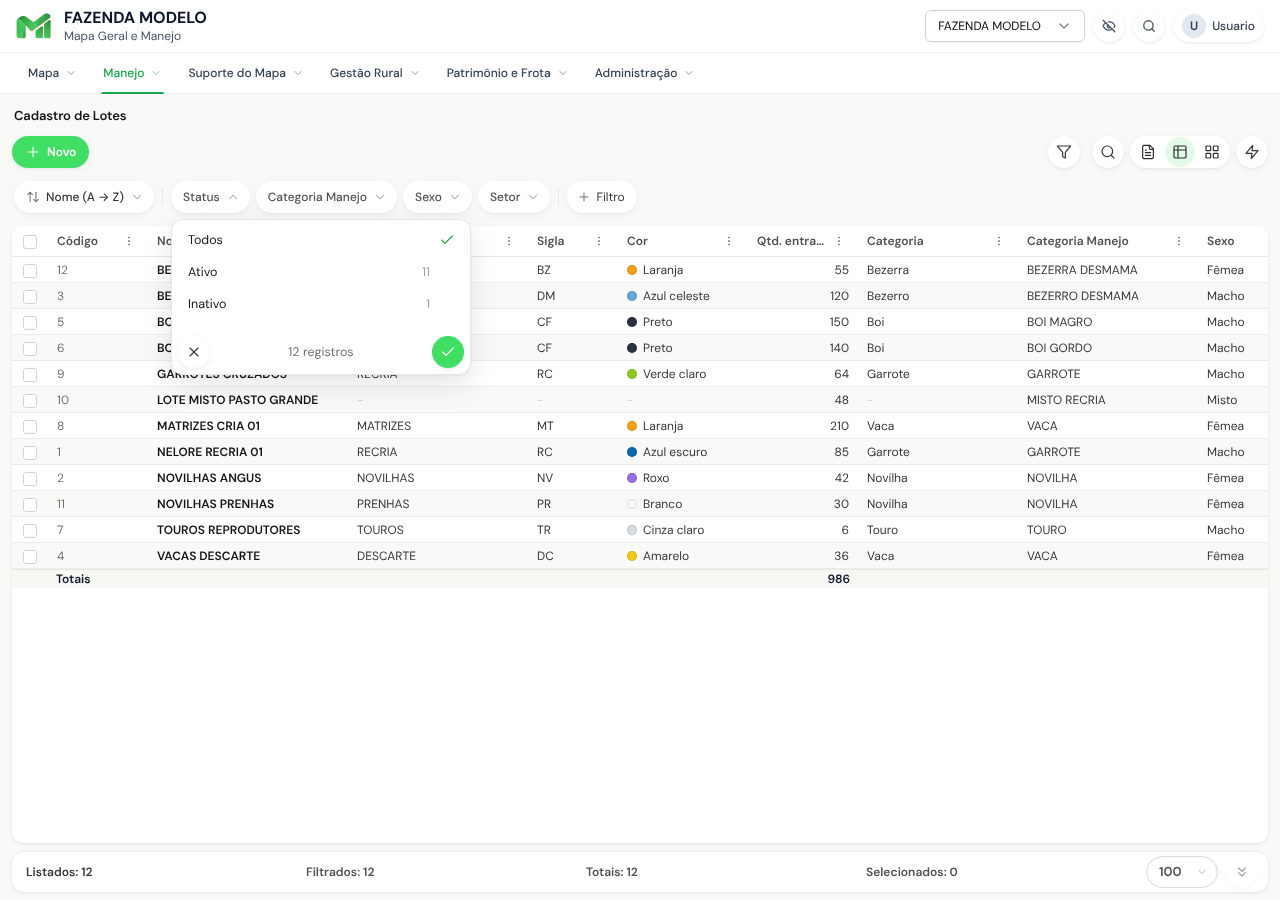
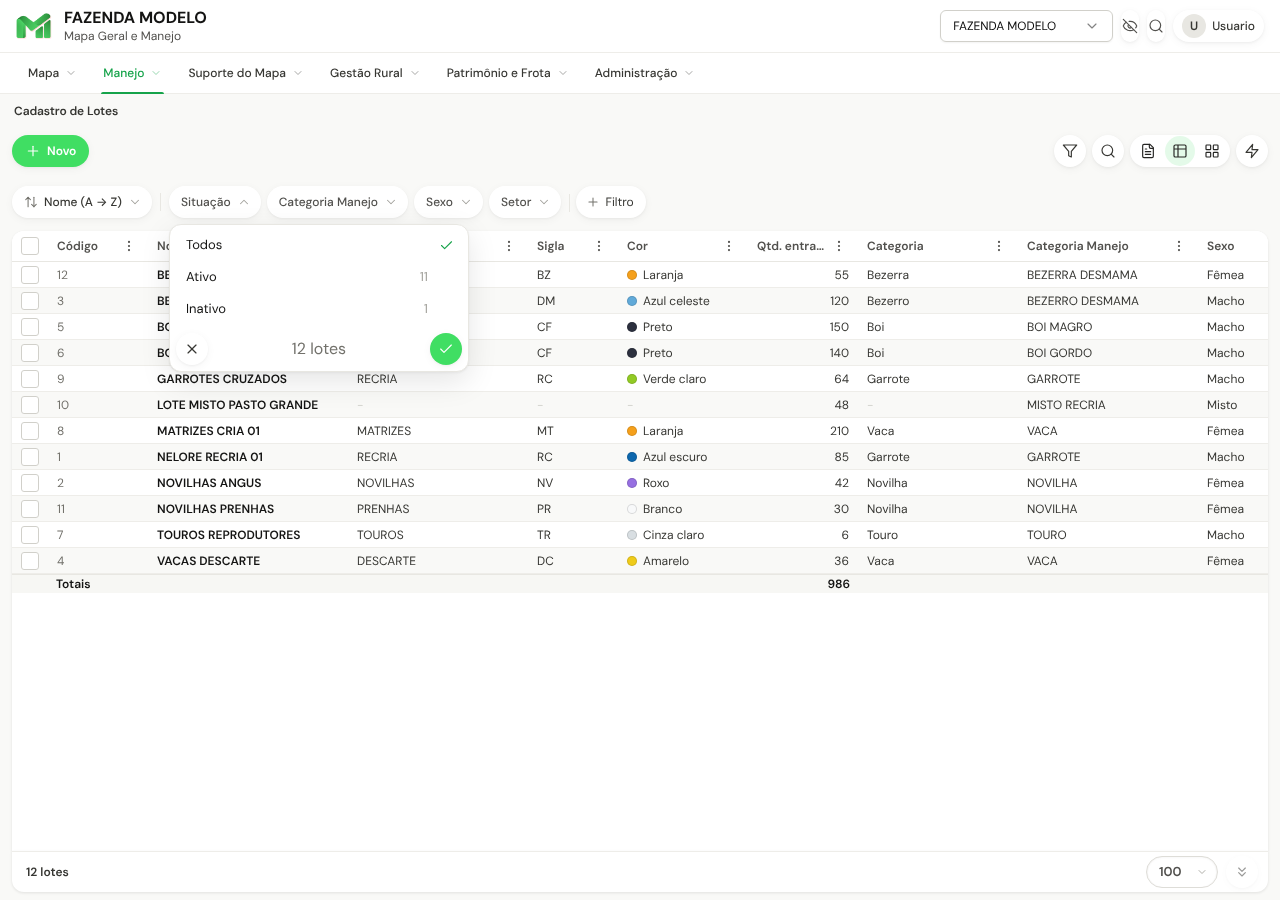
docs(base1): D-PROD-162 — paridade medida com o design, relatório e evidências
Método (comparação automática design × sistema real, elemento a elemento, nos
três tamanhos), resultado da medição final, diferenças que ficam de propósito e
mudanças de comportamento decididas. Evidências: design | sistema | mapa de
diferenças por estado e o resumo da medição.

Claude-Session: https://claude.ai/code/session_01UazgFgDf1f5UbiFMYmmzCM

diff --git a/docs/engineering/UI-BASE1-DESIGN-D161-REPORT.md b/docs/engineering/UI-BASE1-DESIGN-D161-REPORT.md
@@ -1,61 +1,73 @@
 # UI-BASE1-DESIGN-D161 — relatório
 
-**Fatia:** acabamento do design "Cadastro de Lote" no motor Base1 (D-PROD-161).
-**Tipo:** visual (UI). Sem migration, domínio, rota, página, config ou dependência nova.
+**Fatia:** design "Cadastro de Lote" no motor Base1 (D-PROD-161; paridade medida em D-PROD-162).
+**Tipo:** visual (UI) e comportamento de tela. Sem migration, domínio, rota, página, config de escopo ou dependência nova.
 **Fonte da verdade:** `docs/design/cadastro-de-lote/cadastro-de-lote.dc.html` (roda com o `support.js` de `docs/design/detalhes-do-lote/`).
-**Pedido do proprietário:** repassar a configuração ao motor Base1 e a todas as telas que o consomem, mantendo o tamanho de fonte real do sistema.
+**Pedido do proprietário:** repassar a configuração ao motor Base1 e a todas as telas que o consomem, mantendo o tamanho de fonte real do sistema; depois, "100% igual", medido no sistema real e não em capturas.
+
+## Como a paridade foi medida (D-PROD-162)
+
+Comparação automática no navegador (Chromium), estado por estado, nos três tamanhos (desktop 1280×900, tablet 820×1180, celular 390×844):
+
+1. o design roda no próprio protótipo (moldura do aparelho); o sistema roda de verdade (Vite, com backend falso com os mesmos 12 lotes do design);
+2. cada elemento visível dos dois lados é casado por tag + classes do motor + rótulo/texto;
+3. para cada par: posição e tamanho (tolerância 1 px) e estilo calculado (cor, fundo, bordas, cantos, sombra, espaçamentos, peso, opacidade, traço de ícone, cursor, cor visível do texto);
+4. lista o que existe só de um lado, e gera captura dos dois lados com mapa de diferenças em pixels;
+5. para cada diferença, a regra CSS vencedora é localizada (DevTools Protocol) para corrigir na origem.
+
+Estados medidos (os mesmos do design): lista, linha selecionada, registro em leitura, registro em edição, novo com erros, pílula de filtro, Ordenar, "+ Filtro", pesquisa, funil, menu da coluna, mais opções, cards, tabela no celular, lista do campo (Setor), Sistema Produtivo, quantidade por página e excluir — 43 combinações estado × tamanho.
 
 ## O que foi feito
 
-| Peça | Arquivos |
+| Peça | Onde |
 |---|---|
-| Paleta quente no lugar (251 declarações, só regras do escopo do motor) | `src/styles/cadastro-base1.css`, `cadastro-b1-portal.css`, `cadastro-b1-controls.css`, `cadastro-b1ref.css`, `maike-mobile-shell.css`, `maike-notify.css`, `mk-filtros.css`, `mk-superficie.css`, `base1-tipografia.css` |
-| Camada do design (tokens, botões, ícones, tabela, rodapé, abas, campo) | `src/styles/base1-design.css` (novo), `src/index.css` |
-| Abas em pílula, cartão com título, seções empilhadas abaixo de 1024 px, ponto de pendência | `src/components/cadastro/base1/Base1PanelTabs.jsx` |
-| Mensagem de erro com ícone; "Campo obrigatório" no lugar de "true" | `src/components/cadastro/base1/B1Field.jsx` |
-| Papéis de célula (título, código, vazio), tipo de célula `cor`, tag "Inativo" | `Base1Grid.jsx`, `CadastroBase1Grade.jsx`, `cadastroBase1CellKind.jsx`, `Base1Cards.jsx` |
-| Faixa de filtros rápidos e pílula de ordenação | `FiltrosRapidos.jsx` (novo), `CadastroListaChrome.jsx`, `CadastroBase1Grade.jsx` |
-| Lotes: coluna Cor com amostra, campos padrão dos cards, pílulas iniciais | `src/components/lotes/TabelaLotes.jsx`, `src/pages/CadastroLotes.jsx` |
-| Cards no celular: até 8 campos por padrão | `src/hooks/useCadastroCardsPrefs.js` |
-| Lista de seleção dos campos com pesquisa lisa e "+"; folha de lista no celular | `src/components/common/PainelSelecao.jsx`, `src/components/financeiro/AutocompleteGenerico.jsx` |
-| Pesquisa da barra, listas de configuração, cabeçalho do celular nas telas Base1 | `src/styles/base1-design.css` |
-| Testes | `tests/smoke/base1DesignD161.test.jsx`, `tests/smoke/base1FiltrosRapidos.test.jsx` |
+| CSS de propostas do design portado **inteiro e mecanicamente** (`@container` → `@media`, peças compartilhadas sob `body:has(.cadastro-b1--full-page)`, nenhum `font-size`) | `src/styles/base1-design.css` |
+| Tokens da raiz do design; cores frias literais do CSS do sistema viram `var(--mkq-<hex>, <hex>)` (quentes só com tela Base1 aberta) | `src/styles/base1-design-tokens.css` + 15 arquivos de `src/styles/` (só o valor da cor muda) |
+| slate/gray do Tailwind em variável com a cor padrão de reserva | `tailwind.config.js`, `src/styles/base1-design-tokens.css` |
+| Hex arbitrários frios em classes (`bg-[#FAFCFE]`…) | `src/styles/base1-paleta-tailwind.css` |
+| Acertos do app para o design (cada um com o porquê) | `src/styles/base1-design-ajustes.css` |
+| Tipografia só com tamanhos (as cores seguem o design) | `src/styles/base1-tipografia.css` |
+| Título visível do desktop, faixa de filtros (faixa/trilho/setas, janelas, condição, lista "Filtros" no celular), rodapé em palavras | `CadastroWorkspace.jsx`, `FiltrosRapidos.jsx`, `CadastroListaChrome.jsx`, `contagemBase1.js`, `CadastroBase1Grade.jsx` |
+| Grade: ponto de situação, título da célula de cor pelo nome, "0" não é vazio, caixa de 18 px | `cadastroBase1CellKind.jsx`, `Base1Grid.jsx`, `Base1Ui.jsx` |
+| Registro: ‹ › na linha das abas (desktop) ou acima das seções (tablet), na ordem da grade; sem a faixa de cabeçalho; sem lista lateral | `registroNavBase1.jsx`, `ordemDaListaBase1.js`, `Base1PanelTabs.jsx`, controladores |
+| Formulário: grupos, chave em caixa, campo travado, campo numérico, dica do ícone oficial sob a categoria, Sistema Produtivo em janela, larguras do design | `DynamicFormRenderer.jsx`, `B1Field.jsx`, `B1MultiSelecao.jsx`, `FormularioLote.jsx`, `IconeOficialLotePreview.jsx` |
+| Listas de seleção dos campos no modelo do design (largura do campo, "+" na pesquisa, nome do campo) | `PainelSelecao.jsx`, `AutocompleteGenerico.jsx` |
+| "Filtrar por campo" sem título e alinhado como no design | `FiltroPorCampo.jsx` |
 
-Como o porte é no motor, vale para todas as telas Base1. Só três formulários usam abas (Lotes, Bens, Empresa); os demais recebem paleta, campo, tabela e botões.
+Como o porte é no motor, vale para todas as telas Base1. O Mapa Geral não muda: tudo o que é compartilhado só muda com uma tela Base1 aberta.
 
-## Como a paleta foi portada
+## Resultado (medição final)
 
-O design traz uma cópia do CSS do sistema já recolorida. Um script comparou regra a regra essa cópia com o CSS real e trocou só a cor, só onde o seletor é do motor. As 73 declarações de seletores compartilhados com o mapa e a casca (folha, pílulas, cabeçalhos) **não** foram tocadas.
+Arquivo completo: `docs/engineering/evidencias/base1-design-d161/paridade-RESUMO.txt`.
 
-## O que ficou de fora
+| Tamanho | Estados | Elementos sem par (por lado) | Estilos diferentes por estado |
+|---|---|---|---|
+| Desktop | 17 | 5–8 na lista e janelas (dados e nomes de ícone) | 18–31, todos explicados abaixo |
+| Tablet | 17 | 7–11 (idem) | 11–36 |
+| Celular | 8 | 6–13 (idem) | 21–26 |
 
-Está no design e não entrou:
+O que sobra, em todos os estados, é só:
 
-- condição/operadores dentro do filtro rápido (seguem no filtro avançado do menu da coluna) e a lista "Filtros" do celular (no celular não há faixa; o funil abre o "Filtrar por campo" de antes);
-- setas e esmaecimento na rolagem lateral da faixa;
-- seleção múltipla em janela (Sistema Produtivo continua em pílulas); no celular o "+" de cadastrar continua no topo da folha, não dentro da pesquisa;
-- movimento de abrir e fechar;
-- larguras exatas dos campos do Lote (o design usa Descrição 5 · Código 2 · Data 3 · Ativo 2 numa linha; aqui os campos principais entraram no cartão da aba Geral com as larguras atuais);
-- rodapé em palavras ("12 lotes · 1 selecionado") — contraria o teste PAR6 de `mobileParidadeV2`.
+1. **Tamanho de fonte** (pedido do proprietário: vale o do sistema). Ex.: tabela 12 px no sistema × 13 px no design; título da página 13 × 15 px — por isso a lista fica 4 px mais alta no desktop; rótulos e chips mudam a largura em 1–4 px.
+2. **Dados do ambiente de teste:** nome do usuário ("Usuario" × "Maike") e um módulo a mais no menu (Patrimônio e Frota); ícone oficial da categoria (o backend falso não tem o vínculo do catálogo).
+3. **Artefatos do arquivo do design:** ícones de cadeado e calendário quebrados no design (o arquivo trocou `viewBox` por `sc-camel-view-box`); preto `#000` × `#0a0a0a` no texto da casca (o protótipo não tem a variável de cor do tema); nomes de ícone do Lucide (`table-2` × `table2`).
+4. **Comportamento do sistema mantido:** painel de correção da entrada (R1) no registro em edição; "Carregar mais" apagado quando não há mais registros; foco do teclado vai para a lista aberta (o visual de campo aberto foi reproduzido); dica "Novo setor" no "+" (o design diz "Novo").
 
-Limitações conhecidas da faixa de filtros: filtros e ordenação continuam locais à grade (como antes) e somem ao abrir um registro; nas telas paginadas no servidor o filtro vale para as linhas já carregadas (como o filtro de coluna); o total da janela usa a palavra "registros".
+## Mudanças de comportamento (decididas em D-PROD-162)
 
-Motivo do recorte: a leitura em paralelo do motor foi interrompida pelo limite de uso da conta; o que entrou é o que pôde ser conferido no navegador.
-
-## Diferenças em relação ao design
-
-1. **Tamanhos de fonte:** todos os do sistema, por pedido.
-2. **Cartão da aba:** no design o fundo do registro é creme e o cartão é branco com sombra. Aqui o registro continua numa superfície branca e o cartão da aba tem borda fina, porque Lotes, Bens e Empresa têm campos acima das abas que ficariam soltos no fundo.
-3. **Botão de lista lateral das abas:** mantido (o design não o mostra; há teste e preferência salva).
-4. **Caixa de seleção de 18 px e chave:** diferenças vindas de cópia antiga do CSS no design; vale o repositório.
+- Rodapé em palavras ("12 lotes", "5 de 12 lotes · 1 selecionado"); some no celular e no registro fora do desktop. Os números ficam em `data-*` do `.mg-summary`.
+- ‹ › do registro seguem a ordem que a lista mostra (antes: a ordem dos dados).
+- Salvar com campo numérico vazio avisa "Campos obrigatórios" ("Número inválido" só com número digitado errado).
+- Celular: o funil abre a lista "Filtros" da faixa (antes: "Filtrar por campo").
+- Abas sem a opção de lista lateral; "Ativo" como chave em caixa; situação na grade com ponto colorido (o selo antigo saiu).
 
 ## Verificação
 
-- Navegador real (Chromium, backend falso, 1280/820/390 px): lista, registro em leitura e edição, novo com erros, cards, busca, menus. Capturas em `docs/engineering/evidencias/base1-design-d161/` (`design-*` e `app-*`).
-- `npm run verify:all`: ver o PR. `test:backend` exige PostgreSQL, que não existe neste contêiner; a fatia não toca o backend.
+- Navegador real: medição acima (`paridade-*.png` = design | sistema | diferenças em vermelho; `design-*`/`app-*` = capturas).
+- Testes: suíte de fumaça inteira passando; testes atualizados onde fixavam o comportamento antigo (rodapé, selo de situação, lista lateral, "+" da folha, chave do Ativo, dica do ícone) e testes novos (condição dentro da janela do filtro).
+- `lint`, `gate:types`, `gate:source-closure`, `gate:import-integrity`, `gate:no-secrets`, `gate:base44`, `gate:product-scope`, `gate:governance-paths`. `test:backend` exige PostgreSQL, que não existe neste contêiner; a fatia não toca o backend.
 
-## Pendências e decisões para o proprietário
+## Pendências para o proprietário
 
-- Portar o restante da lista acima (uma fatia por peça).
-- Rodapé em palavras: revoga a ordem "Listados, Filtrados, Totais, Selecionados"?
-- Levar a paleta quente ao Mapa Geral e à casca?
+- Movimento (proposta 6.32): a parte em CSS veio no porte; os efeitos que no design dependem de script (botão que cede e volta com mola no toque, ficha empurrada pela direita ao abrir um lote) não foram portados.
+- Levar a paleta quente ao Mapa Geral e à casca fora das telas Base1?

diff --git a/docs/engineering/DECISIONS.md b/docs/engineering/DECISIONS.md
@@ -5831,4 +5831,17 @@ Em cada cadeia: bloqueio antes do clique, exclusão do dependente, desbloqueio s
 - **Revoga em parte:** D-PROD-149 (fundo `#FAFCFE`) e as cores de texto da D-PROD-150, só dentro do motor Base1.
 - **Evidência:** `docs/engineering/evidencias/base1-design-d161/`; teste `tests/smoke/base1DesignD161.test.jsx`; relatório `docs/engineering/UI-BASE1-DESIGN-D161-REPORT.md`.
 
-<!-- Próxima decisão: D-PROD-162 -->
+## D-PROD-162 — Motor Base1: paridade medida com o design "Cadastro de Lote"
+
+- **Contexto:** o proprietário reavaliou a D-PROD-161 e pediu a tela "100% igual" ao design, conferida no sistema real (não em capturas), mantendo o tamanho de fonte do sistema.
+- **Decisão (método):** a igualdade passa a ser **medida**: o design e o sistema rodam lado a lado no navegador, cada elemento é casado e comparado (posição, tamanho, estilo calculado) nos três tamanhos; toda diferença é corrigida na regra que vence ou explicada. Resultado e método no relatório `docs/engineering/UI-BASE1-DESIGN-D161-REPORT.md`.
+- **Decisão (CSS):**
+  - o CSS de propostas do design é portado **inteiro e mecanicamente** em `src/styles/base1-design.css` (`@container` → `@media`; peças compartilhadas sob `body:has(.cadastro-b1--full-page)`; nenhum `font-size`); os acertos do app ficam à parte, comentados, em `base1-design-ajustes.css`;
+  - a paleta quente das peças compartilhadas e do Tailwind chega por **variáveis com a cor original de reserva** (`var(--mkq-<hex>, <hex>)`, `--mkq-tw-slate-*`/`--mkq-tw-gray-*` em `tailwind.config.js`), definidas só com tela Base1 aberta — cascata e especificidade não mudam e o Mapa Geral fica como está;
+  - `base1-tipografia.css` fica só com tamanhos e pesos (as cores de texto seguem o design).
+- **Decisão (comportamento):** rodapé da lista em palavras ("12 lotes", "5 de 12 lotes · 1 selecionado"), escondido no celular e no registro fora do desktop; ‹ › do registro na linha das abas (desktop) ou acima das seções (tablet), na ordem que a lista mostra, sem a faixa de cabeçalho do registro; abas sem lista lateral; "Ativo" como chave em caixa; situação na grade com ponto colorido (sai o selo `CadastroAtivoBadge`); campo numérico vazio ao salvar avisa "Campos obrigatórios"; no celular o funil abre a lista "Filtros" da faixa; condição do filtro dentro da janela da pílula; listas de seleção na largura do campo, com o "+" dentro da pesquisa (também na folha do celular).
+- **Fica diferente de propósito:** tamanhos de fonte (do sistema); painel de correção da entrada (R1); "Carregar mais" apagado quando não há mais registros; foco do teclado na lista aberta; dica "Novo setor"; ícones de cadeado/calendário (no arquivo do design estão quebrados por `sc-camel-view-box`).
+- **Revoga:** a ordem "Listados, Filtrados, Totais, Selecionados" do rodapé (PAR6) e o botão de lista lateral das abas; complementa a D-PROD-161.
+- **Evidência:** `docs/engineering/evidencias/base1-design-d161/` (`paridade-*.png` = design | sistema | diferenças; `paridade-RESUMO.txt`); testes `tests/smoke/base1FiltrosRapidos.test.jsx`, `base1DesignD161.test.jsx`, `cadastroAtivoBadge.test.jsx`, `mobileParidadeV2.test.jsx`, `mobileShellV2.test.jsx`, `mobileV4Ios.test.jsx`, `formularioLoteBase1Tabs.test.jsx`, `base1PanelTabs.test.jsx`, `catalogoGlobalLote.test.jsx`.
+
+<!-- Próxima decisão: D-PROD-163 -->
